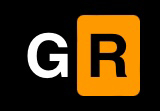
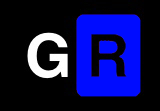
ehfiehfieh

Changed region(s): [[0.4688, 0.1081, 0.9062, 0.8919]]

diff --git a/style.css b/style.css
@@ -2,7 +2,7 @@ body{
     background-color: #000000;
 }
 body::selection {
-    background: #bf8b42;
+    background: blue;
   }
 
 header{
@@ -43,34 +43,34 @@ p{
         font-family:Verdana, Geneva, Tahoma, sans-serif
 }
 p::selection {
-    background: #bf8b42;
+    background: blue;
   }
 h1{
     color:white;
     font-family:Verdana, Geneva, Tahoma, sans-serif;
 }
 h1::selection {
-    background: #bf8b42;
+    background: blue;
   }
 h2{
     color:white;
     font-family:Verdana, Geneva, Tahoma, sans-serif;
 }
 h2::selection {
-    background: #bf8b42;
+    background: blue;
   }
 h3{
     color:white;
     font-family:Verdana, Geneva, Tahoma, sans-serif;
 }
 h3::selection {
-    background: #bf8b42;
+    background: blue;
   }
 h4{
     color:white
 }
 h4::selection {
-    background: #bf8b42;
+    background: blue;
   }
 
 .popup {
@@ -86,7 +86,7 @@ h4::selection {
     color: gray;
 }
 .popup::selection {
-    background: #bf8b42;
+    background: blue;
   }
 button {
     background-color: #575757;
@@ -98,10 +98,10 @@ button {
     width: 300px;
 }
 button::selection {
-    background: #bf8b42;
+    background: blue;
   }
 .orange{
-    color: orange;
+    color: blue;
 }
 .imgpub{
     margin-left: 27%;
@@ -109,7 +109,7 @@ button::selection {
     height : 45%;
 }
 .imgpub::selection {
-    background: #bf8b42;
+    background: blue;
   }
 .imggarage{
     margin-top: -1%;
@@ -117,7 +117,7 @@ button::selection {
     height : 50%;
 }
 .imggarage::selection {
-    background: #bf8b42;
+    background: blue;
   }
 
 .link{
@@ -125,7 +125,7 @@ button::selection {
         color: white; /*par exemple*/
 }
 link::selection {
-    background: #bf8b42;
+    background: blue;
   }
 .txtroy{
     margin: -42% auto;
@@ -158,7 +158,7 @@ input{
     color:rgb(122, 122, 122);
 }
 input::selection {
-    background: #bf8b42;
+    background: blue;
   }
 
 ul{
@@ -168,7 +168,7 @@ ul{
     width:150px;
 }
 ul::selection {
-    background: #bf8b42;
+    background: blue;
   }
 
 li{
@@ -177,7 +177,7 @@ li{
     margin:5px;
 }
 li::selection {
-    background: #bf8b42;
+    background: blue;
   }
 li:hover{
     background-color: cornflowerblue    ;
@@ -188,7 +188,7 @@ a{
     text-decoration: none;
 }
 a::selection {
-    background: #bf8b42;
+    background: blue;
   }
 
 li a:link, li a:visited {
@@ -213,7 +213,7 @@ table{
     color: white;
 }
 table::selection {
-    background: #bf8b42;
+    background: blue;
   }
 
 #employes{
@@ -265,7 +265,7 @@ table::selection {
   margin-right: 41%;
 }
 .formulaire {
-    background: #bf8b42;
+    background: blue;
     color: #fff;
     border-style: double; 
 }
@@ -283,5 +283,5 @@ tr:not(:last-child) {
 }
 .olink{
   text-decoration: none;
-  color: #bf8b42;
+  color: blue;
 }

diff --git a/login.php b/login.php
@@ -40,7 +40,7 @@ input[type=text], input[type=password] {
 
 /* Set a style for all buttons */
 input[type=submit] {
- background-color: orange;
+ background-color: blue;
  color: white;
  padding: 14px 20px;
  margin: 8px 0;
@@ -50,11 +50,11 @@ input[type=submit] {
 }
 input[type=submit]:hover {
  background-color: #403E3E;
- color: orange;
- border: 1px solid orange;
+ color: blue;
+ border: 1px solid blue;
 }
 .btn{
- background-color: orange;
+ background-color: blue;
  color: white;
  padding: 14px 20px;
  margin: 8px 0;
@@ -65,8 +65,8 @@ input[type=submit]:hover {
 }
 .btn:hover{
     background-color: #403E3E;
- color: orange;
- border: 1px solid orange;
+ color: blue;
+ border: 1px solid blue;
 }
 </style>
  </head>

diff --git a/inscription.php b/inscription.php
@@ -86,7 +86,7 @@ input[type=password] {
 }
 
 input[type=submit] {
-  background-color: orange;
+  background-color: blue;
   color: #403E3E;
   padding: 14px 20px;
   margin: 8px 0;
@@ -98,12 +98,12 @@ input[type=submit] {
 input[type=submit]:hover,
 .btn:hover {
   background-color: #403E3E;
-  color: orange;
-  border: 1px solid orange;
+  color: blue;
+  border: 1px solid blue;
 }
 
 .btn {
-  background-color: orange;
+  background-color: blue;
   color: #403E3E;
   padding: 14px 20px;
   margin: 8px 0;
